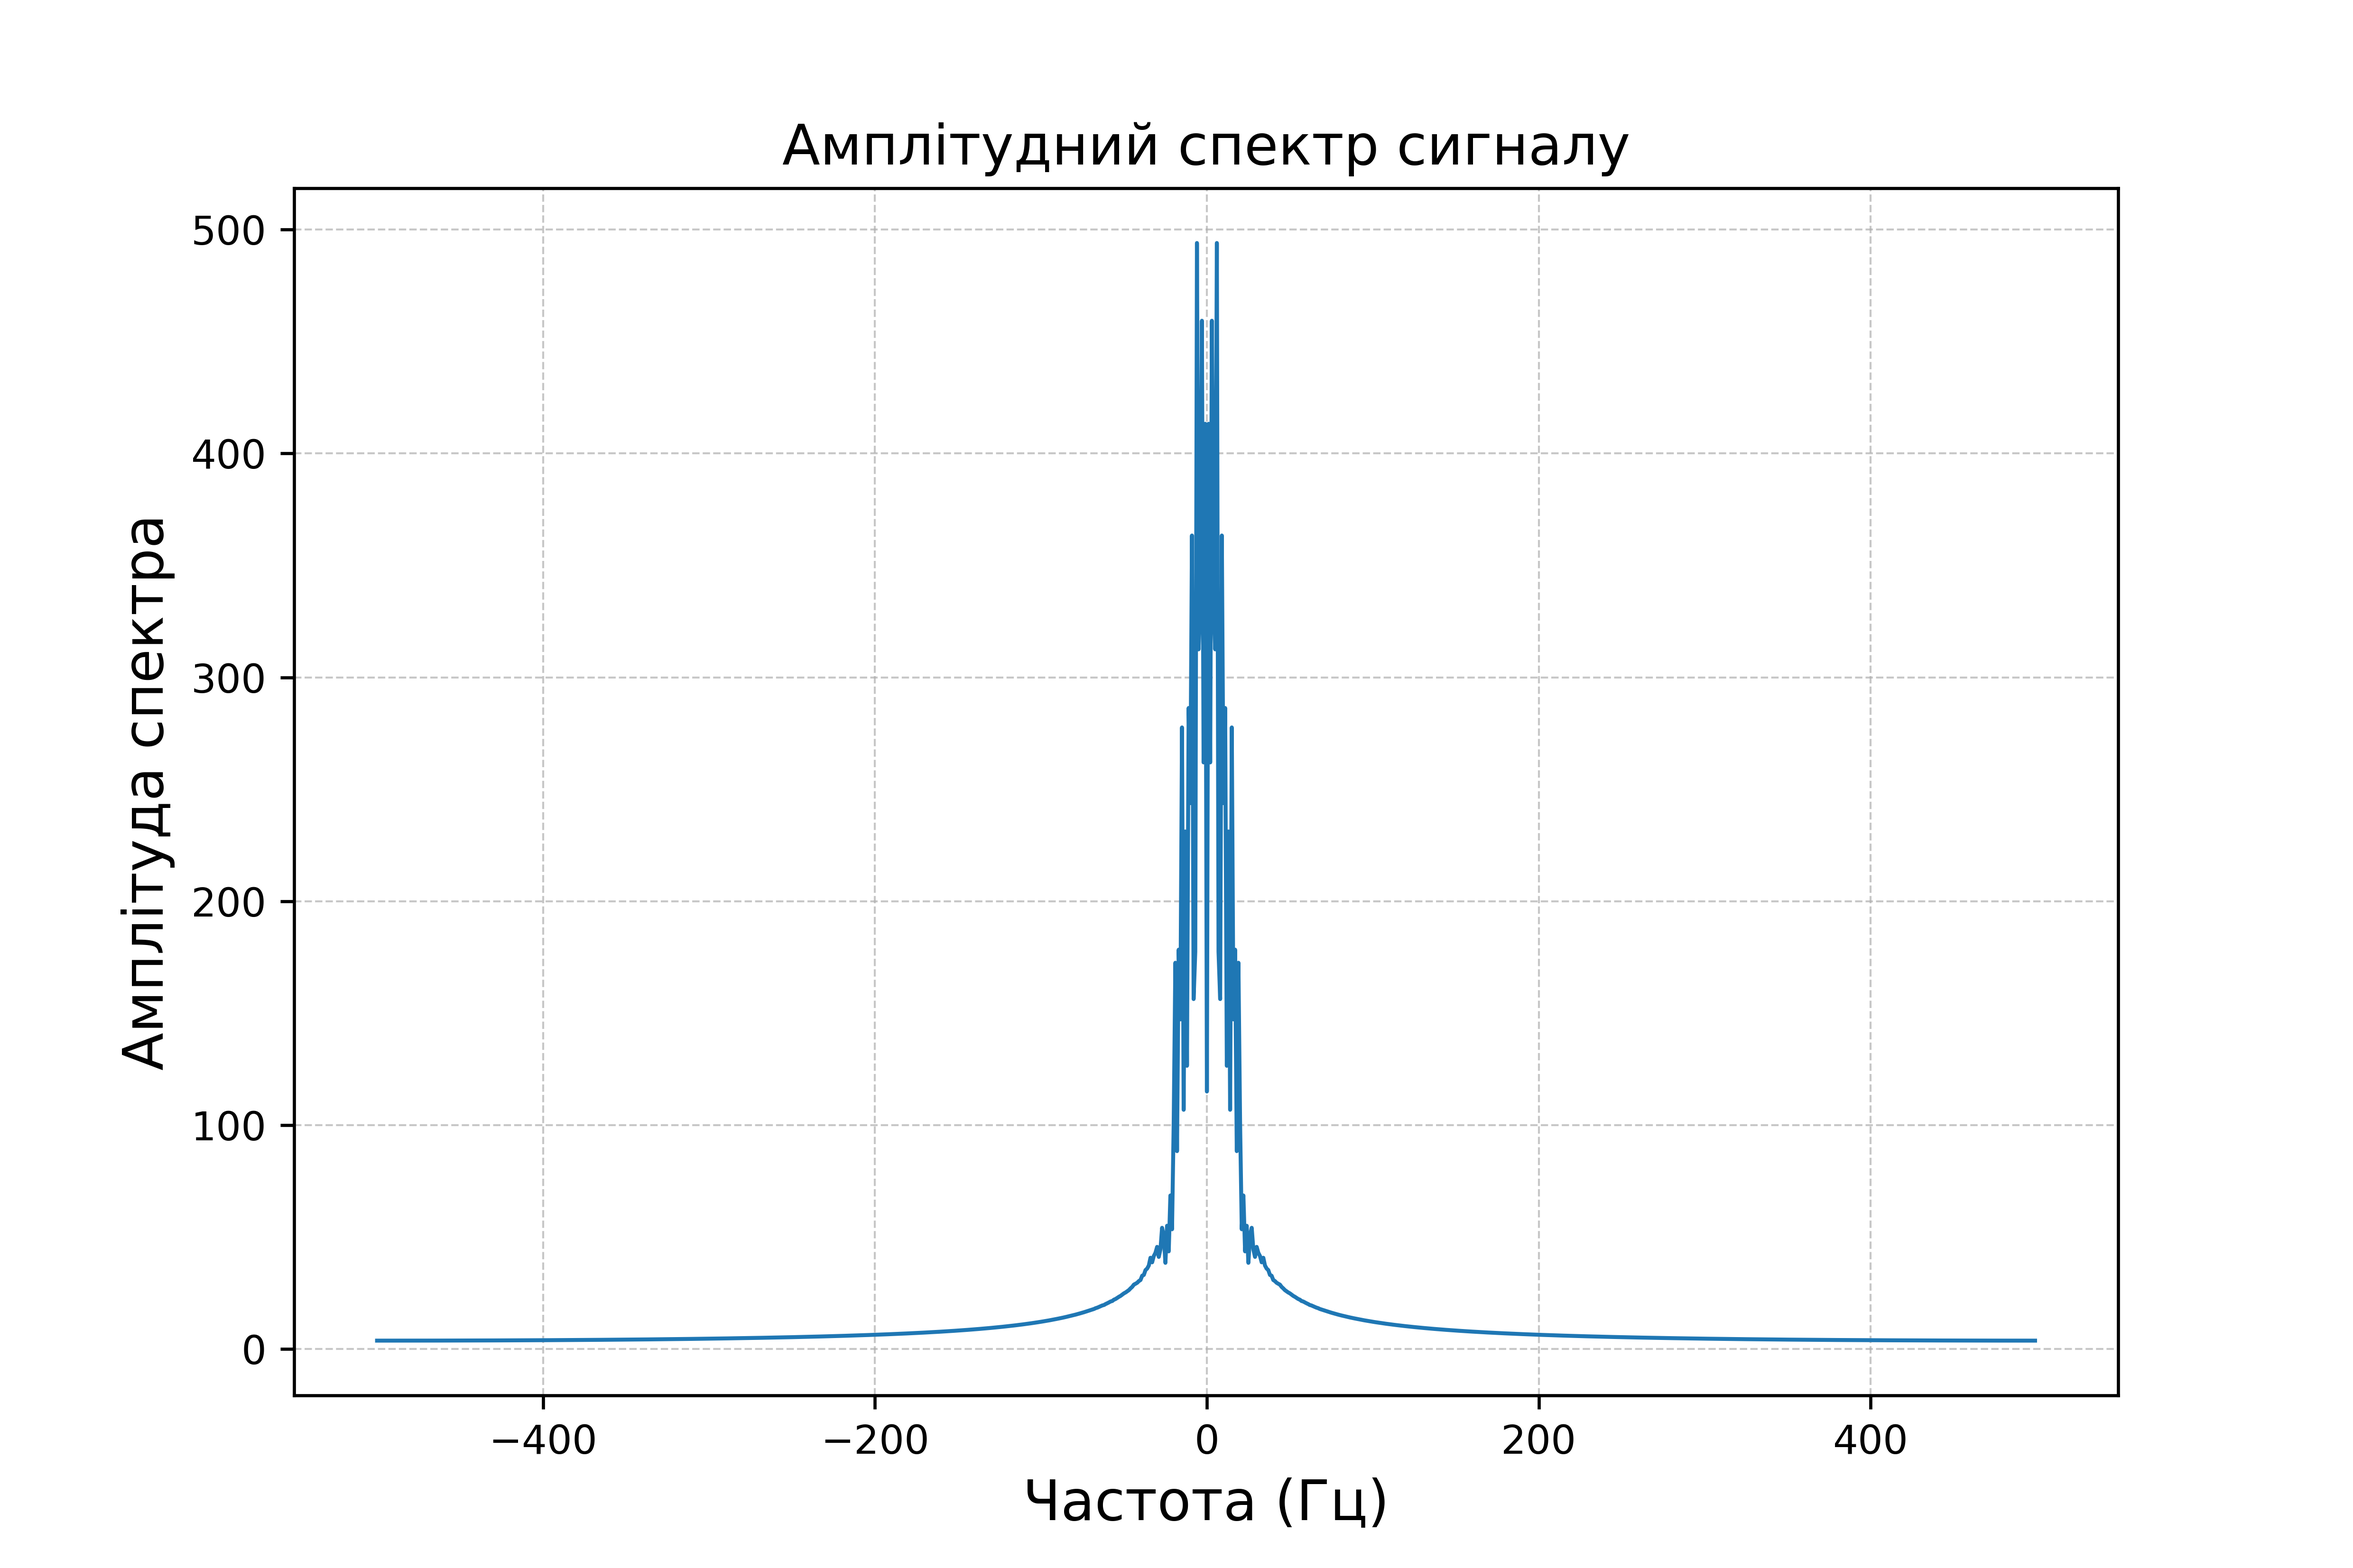
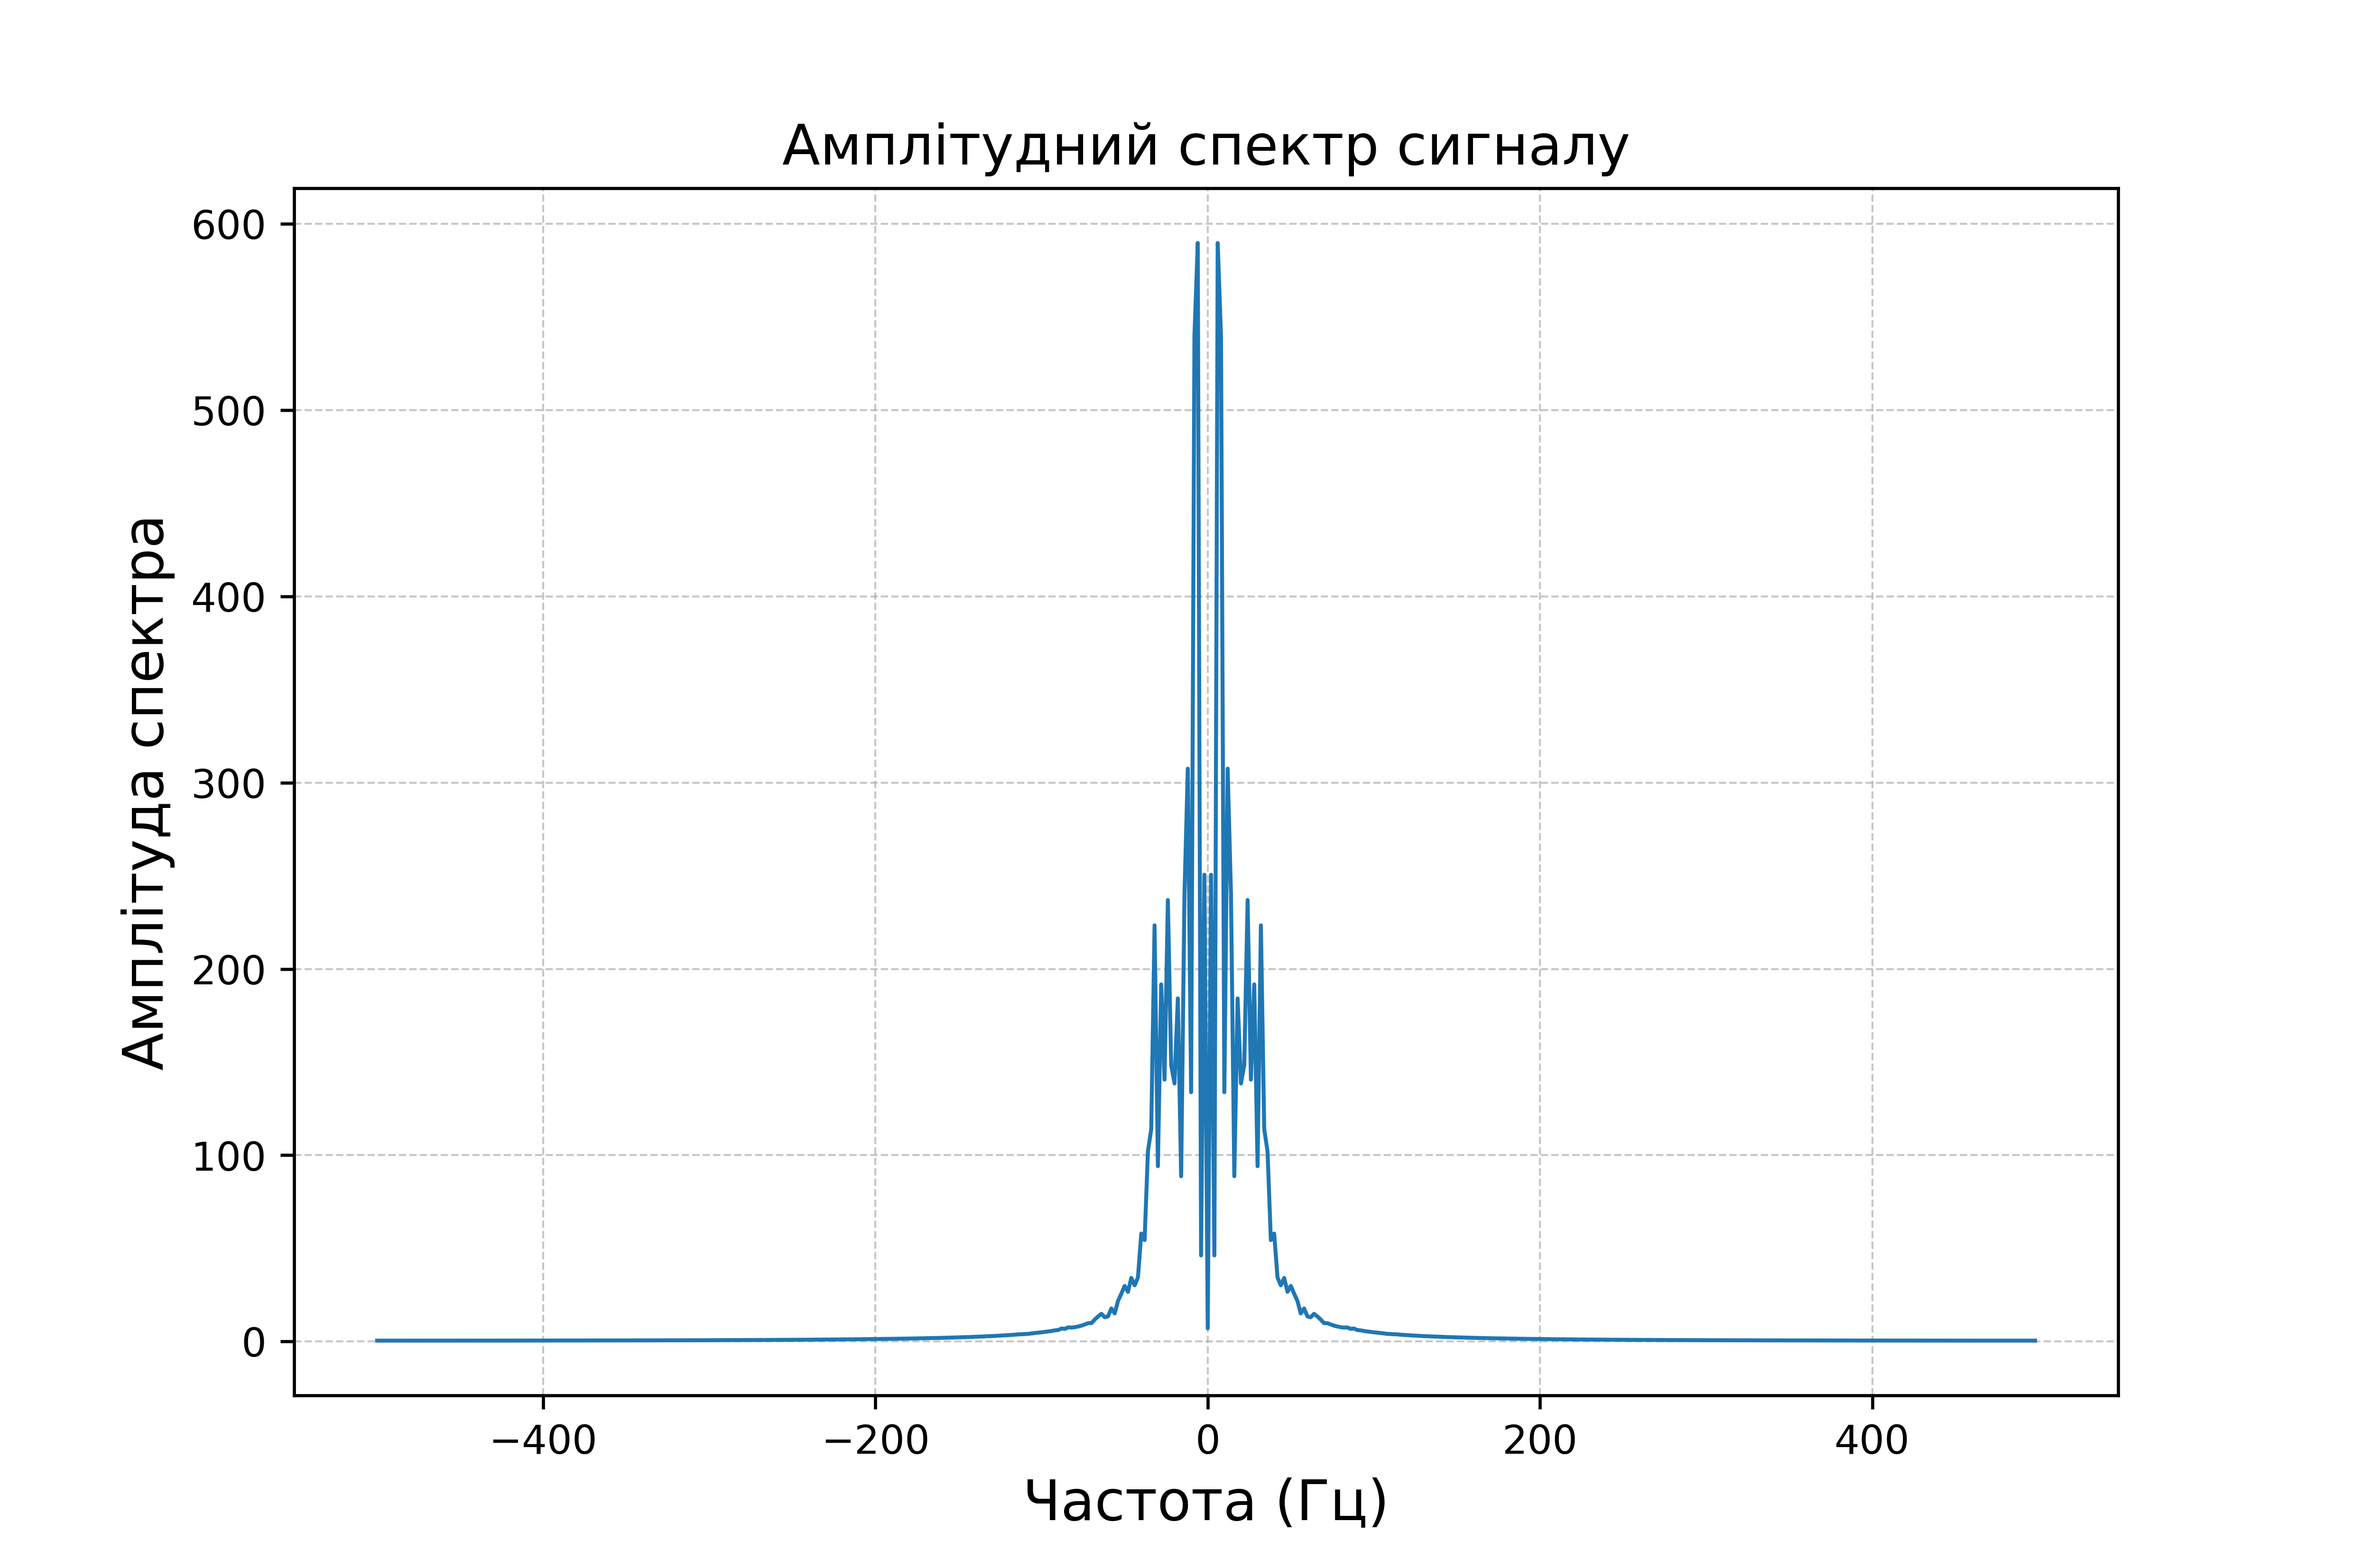
Signal processing, 1 edited

diff --git a/SignalProcessing/SignalProcessing.py b/SignalProcessing/SignalProcessing.py
@@ -6,9 +6,9 @@ from scipy import signal, fft
 # Параметри сигналу
 a = 0      # Середнє значення
 b = 10     # Стандартне відхилення
-n = 1000   # Кількість точок
+n = 500   # Кількість точок
 Fs = 1000  # Частота дискретизації (Гц)
-F_max = 15  # Максимальна частота сигналу (Гц)
+F_max = 29  # Максимальна частота сигналу (Гц)
 
 # Генерація випадкового сигналу
 signal_data = np.random.normal(a, b, n)
@@ -55,7 +55,7 @@ def plot_signal(x, y, title, xlabel, ylabel, filename):
 
 # Побудова графіка сигналу
 plot_signal(time_values, filtered_signal,
-            "Сигнал з максимальною частотою F_max = 15 Гц",
+            "Сигнал з максимальною частотою F_max = 29 Гц",
             "Час (секунди)",
             "Амплітуда сигналу",
             "filtered_signal")
